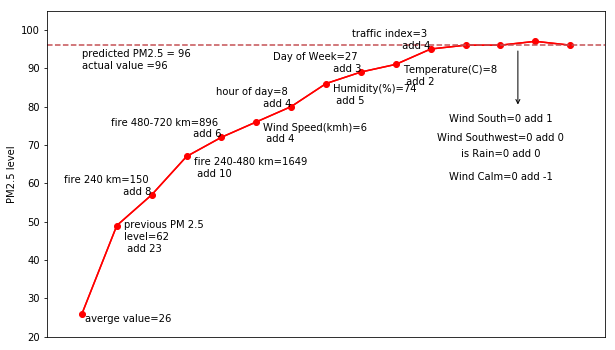
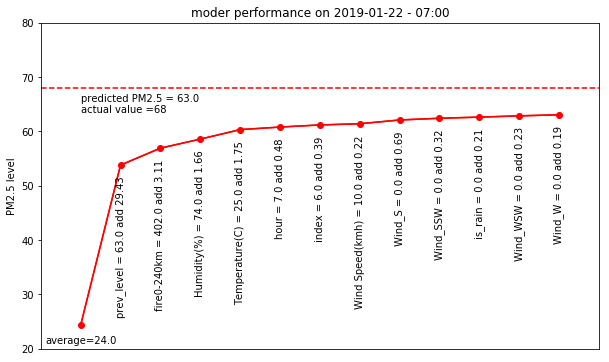
update readme file

diff --git a/README.md b/README.md
@@ -1,15 +1,17 @@
 # Identifying the Sources of Winter Air Pollution in Bangkok
 
 
-![Optional Text](https://github.com/worasom/aqi_thailand/blob/master/readme/bkk_jan2019.png)
+![Air Pollution Map near Bangkok in January 2019](https://github.com/worasom/aqi_thailand/blob/master/readme/bkk_jan2019.png)
 
 Air pollution is a serious environmental threat in many Asian countries. In Thailand, this issue has recently gained prominence due to the high levels of air pollution in Bangkok during the winter of 2019. Air pollution is reported through the air quality index (AQI), with higher values indicating worse air pollution. The main pollutant is PM2.5 particle. Being informed about the current outdoor air quality can help you to protect yourself.
 
 Tourists and locals probably have questions like: Is air pollution getting worse? Is there a time of day or day of week dependence? What about provinces outside Bangkok? What are the sources of the pollutions? 
 
 ## Hypothesis:
-The source is from local traffic. The cold winter air causes a temperature inversion effect that traps the pollution in Bangkok. This means the pollution will depends highly on the weather pattern and traffic.
-The source is from seasonal agricultural burning. Bangkok is not an agricultural region, so it is unclear how much burning is going to affect Bangkok.
+
+1. The source is from local traffic. The cold winter air causes a temperature inversion effect that traps the pollution in Bangkok. This means the pollution will depends highly on the weather pattern and traffic.
+2. The source is from seasonal agricultural burning. Bangkok is not an agricultural region, so it is unclear how much burning is going to affect Bangkok.
+3. Pollution from other provinces or countries. Some NGOs blamed the pollution on near by power plants.
 
 ## Analysis Procedures
 
@@ -46,7 +48,7 @@ The source is from seasonal agricultural burning. Bangkok is not an agricultural
 
 This section on visulaizing the behavior of the air pollution in Bangkok. The original blog can be found in  https://towardsdatascience.com/identifying-the-sources-of-winter-air-pollution-in-bangkok-part-i-d4392ea608dc. 
 
-![Optional Text](https://github.com/worasom/aqi_thailand/blob/master/readme/fig1.png)
+![PM 2.5 pollution in Bangkok over time](https://github.com/worasom/aqi_thailand/blob/master/readme/fig1.png)
 
 
 Let us start by looking for general trends. This data is from the Berkeley Earth database. The air pollution in Bangkok seems to be seasonal, with surges in the winter. It appears that this is not a new problem, but public awareness has only increased recently. The air quality in Bangkok is actually still better than many Asian countries.
@@ -54,17 +56,169 @@ Let us start by looking for general trends. This data is from the Berkeley Earth
     
 If you’re concerned about air quality, as a tourist visiting Bangkok, which months should you avoid? As a resident, what is the best time to go for a jog? Is the air pollution better during the holiday when everyone is away? To answer these questions, I plotted the daily average for different months using data from 2017 and 2018.
 
-![Optional Text](https://github.com/worasom/aqi_thailand/blob/master/readme/bkk_dailyavg.png)
+![Daily average of PM2.5 pollution in 2017 and 2018](https://github.com/worasom/aqi_thailand/blob/master/readme/bkk_dailyavg.png)
 
 We again see the seasonal trend of the PM2.5 pollution. The pollution starts around late October and lasts until early April for both 2017 and 2018. The air quality seems to be better during the New Year break in 2017, but data is missing in 2018, thus inconclusive. On average tourists should avoid Bangkok between late October and early April. You may be thinking, “But that’s when I have my holiday! Where else I can go?” May I suggest Phuket or Samui Island? The south of Thailand has low AQI all year long, as you can see in the map below.
 
 With the start of the monsoon season, the weather in Bangkok will get better, and public attention on this issue will likely fade. However, without immediate policy measures, the problem will come back again next winter. In fact, the Bangkok region is not the only place that suffers from particle air pollution. Below, I show a map of particle pollution in different months.
 
-![Optional Text](https://github.com/worasom/aqi_thailand/blob/master/readme/monthly_map.gif)
+![particle pollution map](https://github.com/worasom/aqi_thailand/blob/master/readme/monthly_map.gif)
 
 The seasonal pollution is not limited to the central region. While the air pollution in Bangkok peaked in January, the pollution moved to the northern provinces. In fact, their situation is much worse as judged by the maximum pollution level across the country shown below. Note that this is a plot of the maximum from monthly averages, to get rid of outliers.
 
-![Optional Text](https://github.com/worasom/aqi_thailand/blob/master/readme/Thailand_max_monthavg.png)
+![maximum particle pollution in each province](https://github.com/worasom/aqi_thailand/blob/master/readme/Thailand_max_monthavg.png)
+
+
+# High PM2.5, Who Are the Culprits ?
+
+Blog: https://towardsdatascience.com/identifying-the-sources-of-winter-air-pollution-in-bangkok-part-ii-72539f9b767a
+
+My analysis procedure is as follows: Build a machine learning model(ML) to predict the air pollution level in Bangkok using environmental factor such as weather, traffic index, and fire maps. Include date-time features such as local hour, and weekday versus weekend in the model to capture other effects from human activities. Identify dominant sources of pollution using the feature of importance provided by the ML model.
+
+If the source of the pollution is local, then the AQI will depend on factors such as weather patterns (wind speed, humidity, average temperature), local traffic, and hour of day. If the pollution is from agricultural burning, the AQI will depend on active fires with some time lag to account for geographical separation. Fire activities are included based on the distance from Bangkok. On the other hand, if the pollution not correlated with the fire map, then the model should put more weight on weather patterns, such as wind direction and wind speed.
+
+
+## Autoregression process
+
+Because the particle pollution tend to linger in the atmosphere, the current value will depend on the previous value. This means that the previous level must be included in the model, but from how far back?  Using PACF suggests using the data with lag one hour, so the level with lag one is included in the model. 
+
+![](https://github.com/worasom/aqi_thailand/blob/master/readme/Thailand_max_monthavg.png)
+
+
+## Agricultural Burning 
+
+
+Farmers in Southeast Asia pick January — March as their burning season. For the north and northeastern provinces in Thailand, these burning activities are large enough to make these provinces among the most polluted places in the world during this time. For Bangkok, one might argue that because the region is heavily industrial rather than agricultural, it may not be affected as much by agricultural burning. But this is not the case.
+
+Because of the tiny size of PM 2.5 particles, they remain suspended in the atmosphere for prolonged periods and can travel over very long distances. From the weather data, the average wind speed is 10 km/hour. The reported PM 2.5 level is a rolling average over 24 hours. A rough estimate is that the current PM 2.5 reading may be from sources as far as 240 km away. The picture below shows the fire map measured by NASA’s satellites, indicative of agricultural burning, on Jan 8, 2018 and on Feb 8, 2018. The yellow circle indicates the area within 240 km of Bangkok. The number of fires on Jan 8, which has an acceptable level of pollution, is much lower than the number of fires on Feb 8, which has an unhealthy level of pollution.
+![Fire spots from NASA’s satellites](https://github.com/worasom/aqi_thailand/blob/master/readme/firemap2018.png)
+
+This is how I calculate the fire features
+It obviously need to depend on the distance from Bangkok
+As a rough estimate, if we use the average wind speed of 10 km/hour and PM 2.5 is a rolling average over 24 hours. We get 240 km as the unit of interest. 
+
+1. Create another time column add time delta based on the distance from Bangkok using 10 km/hr wind speed
+2. Count the amount of fire in three zones: 240 km and 240km - 480 km and 480 -720 km zone. Count the number of fire with in 24 hours period within that zone. 
+
+Here is the fire spots data in 240 km zone. You can see that it has the seasonal pattern similar to the pollution data. 
+
+
+![The number of fires aligns with spikes in PM 2.5 levels](https://github.com/worasom/aqi_thailand/blob/master/readme/hotspot_time.png)
+
+## Weather Pattern
+
+The temperature inversion effect often occurs during winter because the temperature is cooler near the ground. The hotter air on top traps the cool air from flowing. This stagnant atmospheric condition allows the PM 2.5 particles to remain suspended in the air for longer. On the other hand, higher humidity or rain will help remove particles from the atmosphere. This is one reason why in the past when the air pollution was high, the government has sprayed water in the air. Unfortunately, this mitigation does not appear to be effective, since the volume of water is minuscule compared to actual rain. How much influence does weather pattern have on air pollution? Let’s compare the weather in winter versus other seasons.
+
+![compare the weather pattern in winter and other seasons](https://github.com/worasom/aqi_thailand/blob/master/readme/weather1.png)
+
+Temperature, wind speed and humidity are all lower in winter, but not by a large amount. Now, let’s look at the relationship of each of these with the PM 2.5 level.
+
+![Effect of temperature, wind speed, and humidity on PM 2.5 level in winter](https://github.com/worasom/aqi_thailand/blob/master/readme/weather2.png)
+
+
+Temperature, wind speed and humidity are all lower in winter, but not by a large amount. Now, let’s look at the relationship of each of these with the PM 2.5 level.
+
+![Effect of temperature, wind speed, and humidity on PM 2.5 level in winter](https://github.com/worasom/aqi_thailand/blob/master/readme/wind_nowind.png)
+
+On windy days, the pollution is clearly better. The median of the distribution for PM 2.5 levels is lower on windy days compared to on days without wind.
+
+In fact, the pollution level also depends on the wind direction, as seen in this plot. I selected only four major wind directions for simplicity.
+
+![PM2.5 relationship with the wind direction in winter](https://github.com/worasom/aqi_thailand/blob/master/readme/wind.png)
+
+On the days where the wind comes from the south, the pollution level is lower likely because the Thai gulf is to the south of Bangkok. The clean ocean wind improves the air quality. Wind from the other three directions pass overland. However, having any wind is better than the stagnant atmospheric conditions on calm days.
+
+The shift in the median PM 2.5 level is smaller between rainy days and days with no rain. There are fewer rainy days during the winter season, so the data is somewhat noisy, but a difference can be observed in the cumulative density function.
+
+![PM2.5 relationship with the wind direction in winter](https://github.com/worasom/aqi_thailand/blob/master/readme/rain_norain.png)
+
+## Traffic Index 
+
+One of the sources of PM 2.5 particles is car engine exhaust. While campaigning for more public transportation usage is in general good for the environment, the effectiveness toward reducing PM 2.5 pollution is unclear because it has low correlation with the PM2.5 level.
+
+Before working on the data, some data are missing and seem to change scale. Filling the missing data using the previous year. 
+
+
+![Clean up traffic data](https://github.com/worasom/aqi_thailand/blob/master/readme/traffic1.png)
+
+![Clean up traffic data](https://github.com/worasom/aqi_thailand/blob/master/readme/traffic.png)
+
+We have seen that PM 2.5 levels are related to the time of day. The pollution is lower around 3 pm, but remains high during the night time. When plotted against the traffic data, the relationship with the pollution level is very noisy. There does not seem to be a strong correlation. Including the time of day and weekday versus weekend information into the model might make the relationship more clear.
+
+
+
+# Machine Learning Model
+
+The picture below show a dedrogram of all input features calculated from Spearman correlation. The dendrogram helps to identify redundant features that can be removed from the model. The number of fires within various distances and the level of PM 2.5 are closely related. Other features are further away. I ended up using all of these features in the model.
+
+![dendrogram of input features](https://github.com/worasom/aqi_thailand/blob/master/readme/dendogram.png)
+
+ ## Training, validation, and test sets
+ 
+ Time series data should not be randomly split since the model might learn from an example of data. This is how I split the data for training, validation and test set. 
+The blue region are the training set. I will use this for hyper parameter tuning, test on the validation set, retrain the train+validation together and test on the test set. 
+
+ 
+ ![time series split](https://github.com/worasom/aqi_thailand/blob/master/readme/timeseries.png)
+ 
+ ## Model performances
+ 
+I choose Extremely Randomized Trees. This is like a random forest with the threshold for splitting is random instead of choosing the best split in randomforest. 
+After hyperparameter tuning, I look at the feature of importance based on the validation set. I wrote my own function to calculate feature of importance. The feature of importance is based on permuting the data and see how it affect the loss. 
+Removed less important feature. I play around with the threshold a bit. Retrain the model. I got about 0.78 R2 on the validation set and 0.57 R2 on the test set.
+
+This is the model performance on training, validation and test set. 
+
+ ![](https://github.com/worasom/aqi_thailand/blob/master/readme/model_per.png)
+
+This is the prediction value compared to the actual. 
+
+ ![](https://github.com/worasom/aqi_thailand/blob/master/readme/model_per2.png)
+
+Then I retrained the model using both training and validation set. It hast 0.57 R2 on the test set.
+
+This is the final model performance on training, validation and test set. 
+
+ ![](https://github.com/worasom/aqi_thailand/blob/master/readme/model_per3.png)
+
+This is the final model prediction value compared to the actual. 
+
+ ![](https://github.com/worasom/aqi_thailand/blob/master/readme/model_per4.png)
+ 
+The feature of importance based on the training set. 
+
+ ![feature of importance](https://github.com/worasom/aqi_thailand/blob/master/readme/importance2.png)
+ 
+
+The fire features have the highest importances and followed by humidity, temperature and hour of day. 
+
+
+# Model Interpretation 
+
+The influence of each feature is illustrated below using a tree interpreter for the data on Jan 22, 2019 at 7 am with 68 PM 2.5 level
+
+ ![Model Interpretation](https://github.com/worasom/aqi_thailand/blob/master/readme/model_inter.png)
+ 
+ We start with the average value of 24. The PM 2.5 level for the previous hour was 63, thus the model adds a value 29.43. There were 402 fires within a 240 km radius, thus the model adds 3 to the pollution level. Humidity and Tempearture add intotal of 3. The morning rush hour (7 am) adds 0.5 to the model. These six top factors account for most of the total 63 predicted for the PM 2.5 level. The remaining features to the right are less important and thus increase the predicted pollution value less. The model still under estimate the pollution level.
+ 
+  ![Model Interpretation](https://github.com/worasom/aqi_thailand/blob/master/readme/model_inter2.png)
+  
+  On a good day such as October 10, 2018 at 1 am the PM 2.5 level was 12. The pollution level in the hour before was low, thus the model subtracts a value of 11. There were few files, and the model substract 1.3. The weather and traffic were good. The combination of many factors results in a low predicted PM 2.5 level of 12.
+  
+ 
+# Conclusions and Future Work 
+ 
+
+In summary, 
+- Study effect of  weather, fire spots, traffic on air pollution.
+- Use ExtraTreeRegressor to identify features most contribute to the air pollution level in Bangkok. 
+- Most important feature are fires from agricultural burning in winter season.
+- The model still achieve about 0.58 - 0.78 R-squared on the validation and test set. 
+
+The fact that there are complex interaction amount features. The level of influence of the fire depends on the wind direction and wind speed suggest that using a neural network maybe a better approach. This will be the subject of future work. 
+
+This analysis confirms the suspicion that many people have — agricultural burning is the root cause of PM 2.5 pollution in Thailand. Burning activities as far as 240 km away from Bangkok, an area which extends into Myanmar, and Cambodia, can cause air problems in Bangkok. Solving this problem will not be easy. It will require a collaborative international effort among the Southeast Asian countries.
+ 
 
 
 
